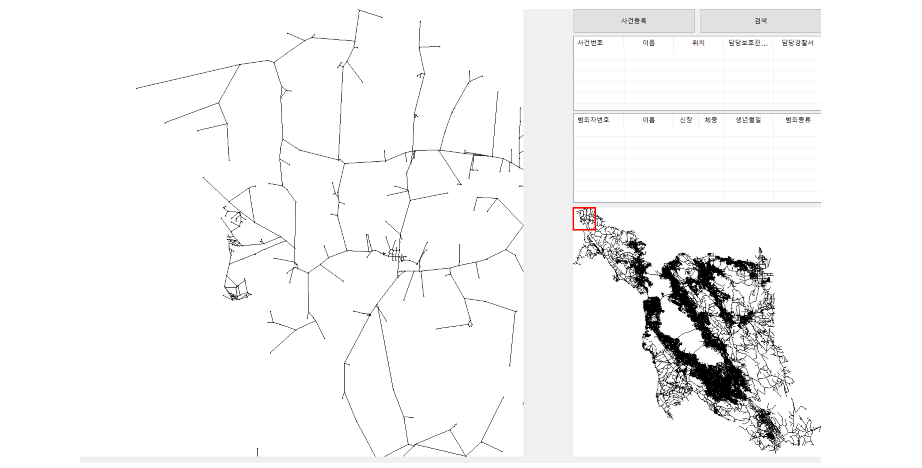
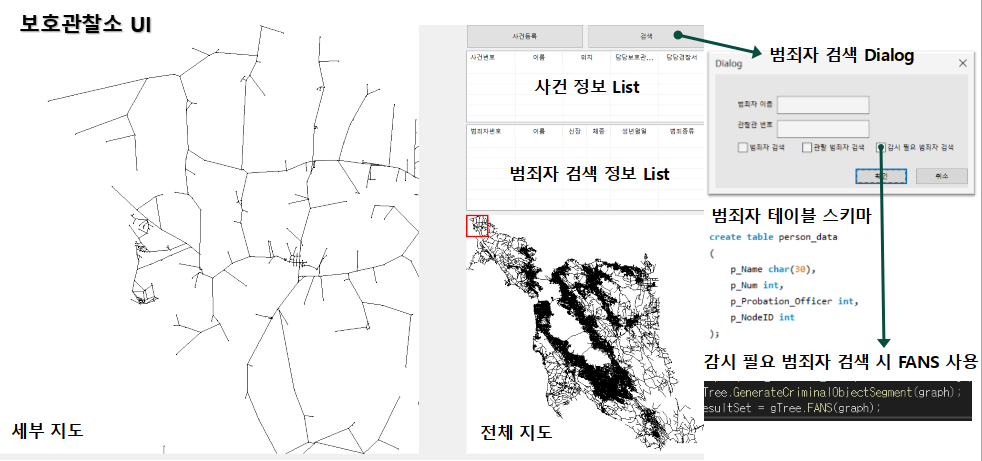
add project

diff --git a/project/snack.md b/project/snack.md
@@ -1,0 +1,19 @@
+## 토이 프로젝트로
+
+### 소개
+스터디할 사람들을 모은 뒤 일주일에 한번씩 자신의 프로젝트를 발표하며 설명하는
+식으로 진행되었던 스터디에서 만들었던 간단한 게임들입니다.
+
+(https://github.com/BlackRime/RESUME/blob/master/image/snack01.PNG)
+후르츠 닌자를 모방하여 MFC로 만들었으며, 과일을 마우스 드래그하면
+과일을 자르며 점수가 증가하고 폭탄을 자를 시 점수가 감소한다,
+일정 점수가 되면 스테이지가 증가하여 과일이 나오는 속도가 빨라지는 형식의 게임이다.
+
+(https://github.com/BlackRime/RESUME/blob/master/image/snack02.PNG)
+세포 키우기를 모방하여 MFC로 만들었으며, 자신보다 작은 세포들을 먹으며 몸을 키워
+더 큰 세포를 먹는 게임이다. 기존 게임과 차이점이라면, 보스가 있으며 보스를 잡기 위해서는
+자신의 세포를 떼어 미사일을 날려 보스를 잡아야 한다.
+
+(https://github.com/BlackRime/RESUME/blob/master/image/snack03.PNG)
+MFC로 만든 로그라이크 게임이며, 키보드 방향키로 이동하고 점프하며 스페이스 바로
+날라오는 단검을 피하고 주변에 있는 소라게 몹을 죽인 뒤 보스인 danger 할아버지를 죽이면 되는 게임이다.

diff --git a/project/BBOGGU.md b/project/BBOGGU.md
@@ -1,0 +1,20 @@
+## 뽀꾸뽀꾸 (1학기 졸업작품)
+
+### 소개
+2인조로 한 프로젝트로 AR 유니티 게임입니다. 구글 ARcore를 사용하였으며,
+자그마한 뽀꾸뽀꾸 마을에 몬스터들이 침략하여 뽀꾸촌장이 현실 세계의 플레이어에게 도움을 요청하여,
+플레이어가 뽀꾸뽀꾸 마을로 가, 몬스터들을 해치우는 게임입니다.
+
+### 동작
+
+(https://github.com/BlackRime/RESUME/blob/master/image/BBOGGU01.PNG)
+핸드폰에서 게임을 실행하면 위의 이미지와 같이 현실 화면의 바닥에 흰색 플레이트가 표시됩니다.
+
+(https://github.com/BlackRime/RESUME/blob/master/image/BBOGGU02.PNG)
+흰색 플레이트를 터치하면 왼쪽에는 뽀꾸마을의 촌장, 오른쪽에는 뽀꾸뽀꾸 마을의 포탈이 표시됩니다.
+
+(https://github.com/BlackRime/RESUME/blob/master/image/BBOGGU03.PNG)
+포탈 안으로 걸어가게 되면 뽀꾸뽀꾸 마을에 들어가게 되며, 몬스터를 처치합니다(몬스터와의 전투 미구현)
+
+(https://github.com/BlackRime/RESUME/blob/master/image/BBOGGU04.PNG)
+모든 전투를 끝내면 들어왔던 포탈을 타고 현실 세계로 나가면 게임이 끝이 납니다.

diff --git a/project/Police.md b/project/Police.md
@@ -1,0 +1,16 @@
+## 범죄 알림 시스템
+
+### 소개
+전자발찌를 착용한 범죄자들의 사건 발생을 했을때 G-트리를 이용한 알고리즘을 사용하여,
+가장 근접한 경찰서를 추천하고 최단 경로를 제공하는 프로그램이다.
+
+(https://github.com/BlackRime/RESUME/blob/master/image/Police01.PNG)
+범죄자들을 감시하는 보호 관찰소의 UI로 범죄자를 분류에 따라 검색할 수 있고,
+사건이 발생했을때 사건을 등록하는 기능이 있다.
+
+(https://github.com/BlackRime/RESUME/blob/master/image/Police02.PNG)
+경찰서의 UI로 경찰서의 ID를 입력하면 가까운 곳에 발생된 사건들이 표시되며
+클릭하면, 경찰서와 사건 발생 지전의 경로가 빨간색으로 표시된다.
+
+(https://github.com/BlackRime/RESUME/blob/master/image/Police03.PNG)
+KSC2019 학부생/주니어논문경진대회에서 장려상을 받기도 하였다

diff --git a/project/MeongNyang.md b/project/MeongNyang.md
@@ -1,0 +1,9 @@
+## 귀여운멍냥이 (애완동물 사이트)
+
+### 소개
+html과 css를 사용하여 구현했던 홈페이지를 jsp를 사용하여 서버와 연동하여 회원가입, 로그인,
+게시글 등록, 게시판의 기능을 수행할 수 있도록 제작한 홈페이지이다.
+
+(https://github.com/BlackRime/RESUME/blob/master/image/MeongNyang01.PNG)
+
+(https://github.com/BlackRime/RESUME/blob/master/image/MeongNyang02.PNG)
